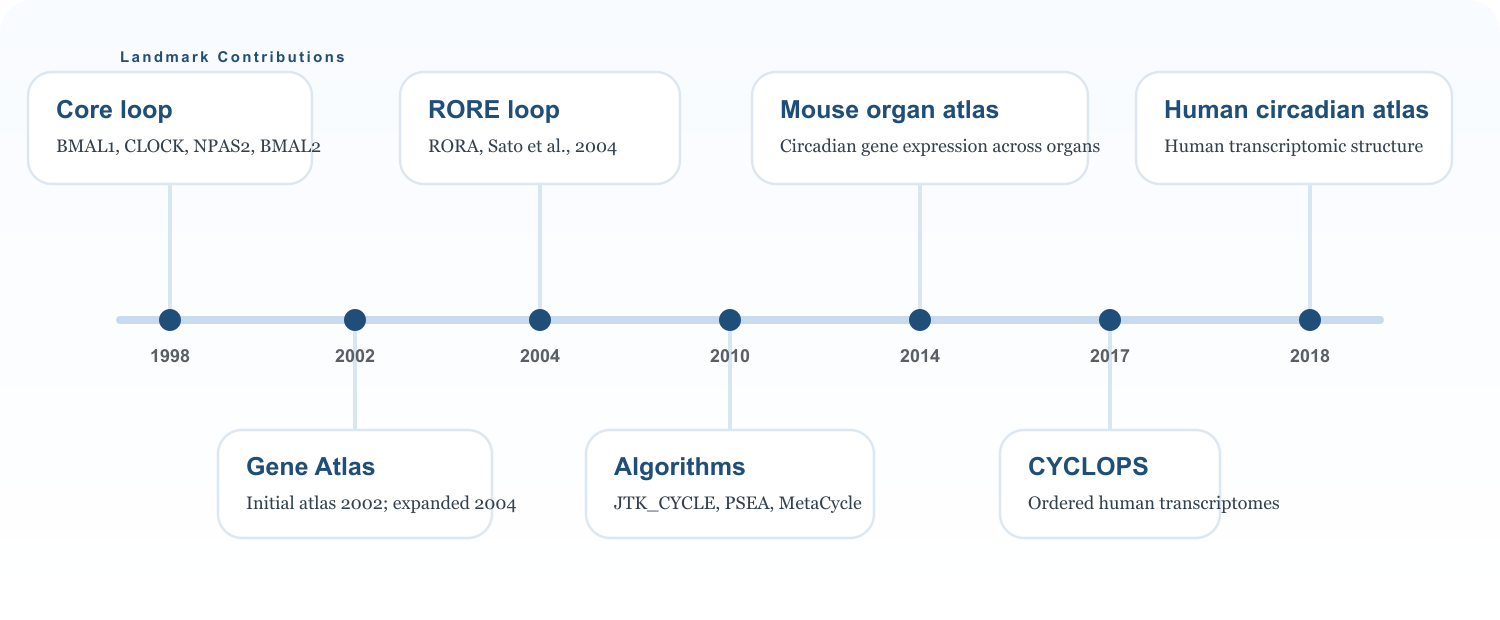
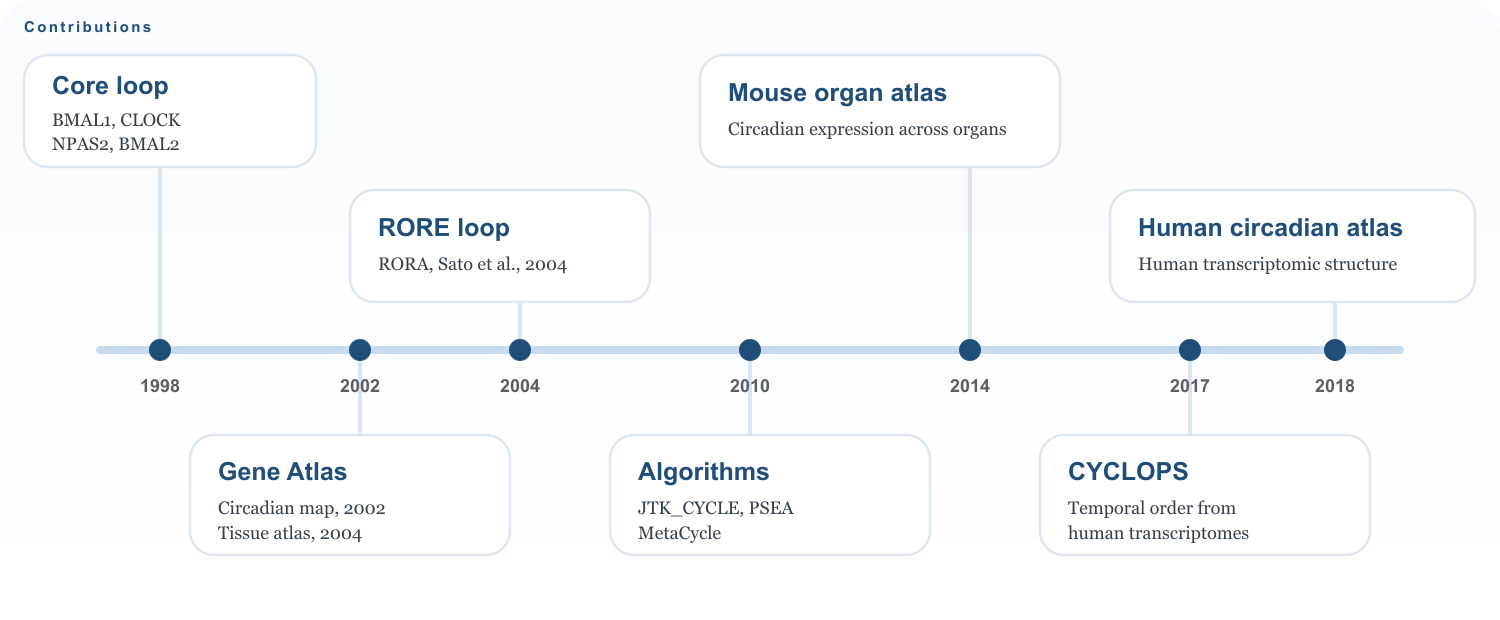
Improve timeline label spacing and readability

diff --git a/index.html b/index.html
@@ -20,14 +20,14 @@ circadian biology from core clock genes to human circadian medicine,
 with contributions in BMAL1, NPAS2, temporal genomics, methods, and
 public resources.">
   <meta property="og:url" content="https://hogeneschlab.org/">
-  <meta property="og:image" content="https://hogeneschlab.org/assets/images/landmark-contributions-map.png?v=20260314-4">
+  <meta property="og:image" content="https://hogeneschlab.org/assets/images/landmark-contributions-map.png?v=20260911-1">
   <meta name="twitter:card" content="summary_large_image">
   <meta name="twitter:title" content="Hogenesch Lab">
   <meta name="twitter:description" content="Hogenesch Lab studies
 circadian biology from core clock genes to human circadian medicine,
 with contributions in BMAL1, NPAS2, temporal genomics, methods, and
 public resources.">
-  <meta name="twitter:image" content="https://hogeneschlab.org/assets/images/landmark-contributions-map.png?v=20260314-4">
+  <meta name="twitter:image" content="https://hogeneschlab.org/assets/images/landmark-contributions-map.png?v=20260911-1">
   <link rel="stylesheet" href="styles.css?v=20260911-2">
 </head>
 <body>
@@ -167,7 +167,7 @@ medicine and human genetics.
 </p>
 </div>
 <figure class="feature-figure">
-<img src="assets/images/landmark-contributions-map.svg?v=20260318-1" alt="Chronological timeline showing the lab's contributions across clock biology, atlases, algorithms, human ordering, and public resources." />
+<img src="assets/images/landmark-contributions-map.svg?v=20260911-1" alt="Chronological timeline showing the lab's contributions across clock biology, atlases, algorithms, human ordering, and public resources." />
 <figcaption>
 A chronological view of the lab’s major contributions, with time as the
 organizing variable across molecular clock biology, atlas-scale

diff --git a/page-template.html b/page-template.html
@@ -14,11 +14,11 @@
   <meta property="og:title" content="$if(seo_title)$$seo_title$$else$$title$ | Hogenesch Lab$endif$">
   <meta property="og:description" content="$if(description)$$description$$else$Hogenesch Lab studies circadian biology, systems biology, and circadian medicine across clocks, transcriptomes, and public resources.$endif$">
   <meta property="og:url" content="$if(canonical)$$canonical$$else$https://hogeneschlab.org$permalink$$endif$">
-  <meta property="og:image" content="https://hogeneschlab.org/assets/images/landmark-contributions-map.png?v=20260314-4">
+  <meta property="og:image" content="https://hogeneschlab.org/assets/images/landmark-contributions-map.png?v=20260911-1">
   <meta name="twitter:card" content="summary_large_image">
   <meta name="twitter:title" content="$if(seo_title)$$seo_title$$else$$title$ | Hogenesch Lab$endif$">
   <meta name="twitter:description" content="$if(description)$$description$$else$Hogenesch Lab studies circadian biology, systems biology, and circadian medicine across clocks, transcriptomes, and public resources.$endif$">
-  <meta name="twitter:image" content="https://hogeneschlab.org/assets/images/landmark-contributions-map.png?v=20260314-4">
+  <meta name="twitter:image" content="https://hogeneschlab.org/assets/images/landmark-contributions-map.png?v=20260911-1">
   <link rel="stylesheet" href="styles.css?v=20260911-2">
 </head>
 <body>

diff --git a/press.html b/press.html
@@ -14,11 +14,11 @@
   <meta property="og:title" content="In the Press | Hogenesch Lab">
   <meta property="og:description" content="Hogenesch Lab studies circadian biology, systems biology, and circadian medicine across clocks, transcriptomes, and public resources.">
   <meta property="og:url" content="https://hogeneschlab.org/press.html">
-  <meta property="og:image" content="https://hogeneschlab.org/assets/images/landmark-contributions-map.png?v=20260314-4">
+  <meta property="og:image" content="https://hogeneschlab.org/assets/images/landmark-contributions-map.png?v=20260911-1">
   <meta name="twitter:card" content="summary_large_image">
   <meta name="twitter:title" content="In the Press | Hogenesch Lab">
   <meta name="twitter:description" content="Hogenesch Lab studies circadian biology, systems biology, and circadian medicine across clocks, transcriptomes, and public resources.">
-  <meta name="twitter:image" content="https://hogeneschlab.org/assets/images/landmark-contributions-map.png?v=20260314-4">
+  <meta name="twitter:image" content="https://hogeneschlab.org/assets/images/landmark-contributions-map.png?v=20260911-1">
   <link rel="stylesheet" href="styles.css?v=20260911-2">
 </head>
 <body>

diff --git a/people.html b/people.html
@@ -18,13 +18,13 @@ across Novartis, Scripps, Penn, and Cincinnati Children’s.">
 including John B. Hogenesch, current team members, scientific lineage,
 and alumni across Novartis, Scripps, Penn, and Cincinnati Children’s.">
   <meta property="og:url" content="https://hogeneschlab.org/people.html">
-  <meta property="og:image" content="https://hogeneschlab.org/assets/images/landmark-contributions-map.png?v=20260314-4">
+  <meta property="og:image" content="https://hogeneschlab.org/assets/images/landmark-contributions-map.png?v=20260911-1">
   <meta name="twitter:card" content="summary_large_image">
   <meta name="twitter:title" content="People | Hogenesch Lab">
   <meta name="twitter:description" content="Meet the Hogenesch Lab,
 including John B. Hogenesch, current team members, scientific lineage,
 and alumni across Novartis, Scripps, Penn, and Cincinnati Children’s.">
-  <meta name="twitter:image" content="https://hogeneschlab.org/assets/images/landmark-contributions-map.png?v=20260314-4">
+  <meta name="twitter:image" content="https://hogeneschlab.org/assets/images/landmark-contributions-map.png?v=20260911-1">
   <link rel="stylesheet" href="styles.css?v=20260911-2">
 </head>
 <body>

diff --git a/research.html b/research.html
@@ -18,13 +18,13 @@ computational methods, circadian medicine, and Human Genetics.">
 Hogenesch Lab spans molecular clock mechanisms, systems biology,
 computational methods, circadian medicine, and Human Genetics.">
   <meta property="og:url" content="https://hogeneschlab.org/research.html">
-  <meta property="og:image" content="https://hogeneschlab.org/assets/images/landmark-contributions-map.png?v=20260314-4">
+  <meta property="og:image" content="https://hogeneschlab.org/assets/images/landmark-contributions-map.png?v=20260911-1">
   <meta name="twitter:card" content="summary_large_image">
   <meta name="twitter:title" content="Research | Hogenesch Lab">
   <meta name="twitter:description" content="Published research from the
 Hogenesch Lab spans molecular clock mechanisms, systems biology,
 computational methods, circadian medicine, and Human Genetics.">
-  <meta name="twitter:image" content="https://hogeneschlab.org/assets/images/landmark-contributions-map.png?v=20260314-4">
+  <meta name="twitter:image" content="https://hogeneschlab.org/assets/images/landmark-contributions-map.png?v=20260911-1">
   <link rel="stylesheet" href="styles.css?v=20260911-2">
 </head>
 <body>

diff --git a/collaborations.html b/collaborations.html
@@ -18,13 +18,13 @@ genomics, circadian biology, and public resources.">
 the Hogenesch Lab with Andrew Su, Andrew Liu, Ron Anafi, and others
 across genomics, circadian biology, and public resources.">
   <meta property="og:url" content="https://hogeneschlab.org/collaborations.html">
-  <meta property="og:image" content="https://hogeneschlab.org/assets/images/landmark-contributions-map.png?v=20260314-4">
+  <meta property="og:image" content="https://hogeneschlab.org/assets/images/landmark-contributions-map.png?v=20260911-1">
   <meta name="twitter:card" content="summary_large_image">
   <meta name="twitter:title" content="Collaborations | Hogenesch Lab">
   <meta name="twitter:description" content="Long-term collaborations of
 the Hogenesch Lab with Andrew Su, Andrew Liu, Ron Anafi, and others
 across genomics, circadian biology, and public resources.">
-  <meta name="twitter:image" content="https://hogeneschlab.org/assets/images/landmark-contributions-map.png?v=20260314-4">
+  <meta name="twitter:image" content="https://hogeneschlab.org/assets/images/landmark-contributions-map.png?v=20260911-1">
   <link rel="stylesheet" href="styles.css?v=20260911-2">
 </head>
 <body>

diff --git a/publications.html b/publications.html
@@ -18,13 +18,13 @@ biology, algorithms, and public resources.">
 publications from the Hogenesch Lab, with major papers in circadian
 biology, systems biology, algorithms, and public resources.">
   <meta property="og:url" content="https://hogeneschlab.org/publications.html">
-  <meta property="og:image" content="https://hogeneschlab.org/assets/images/landmark-contributions-map.png?v=20260314-4">
+  <meta property="og:image" content="https://hogeneschlab.org/assets/images/landmark-contributions-map.png?v=20260911-1">
   <meta name="twitter:card" content="summary_large_image">
   <meta name="twitter:title" content="Publications | Hogenesch Lab">
   <meta name="twitter:description" content="Selected landmark
 publications from the Hogenesch Lab, with major papers in circadian
 biology, systems biology, algorithms, and public resources.">
-  <meta name="twitter:image" content="https://hogeneschlab.org/assets/images/landmark-contributions-map.png?v=20260314-4">
+  <meta name="twitter:image" content="https://hogeneschlab.org/assets/images/landmark-contributions-map.png?v=20260911-1">
   <link rel="stylesheet" href="styles.css?v=20260911-2">
 </head>
 <body>

diff --git a/lineage.html b/lineage.html
@@ -19,14 +19,14 @@ Lineage | Hogenesch Lab">
 Hogenesch Lab, acknowledging the influence of Christopher A. Bradfield,
 Joseph S. Takahashi, Steve A. Kay, and Peter G. Schultz.">
   <meta property="og:url" content="https://hogeneschlab.org/lineage.html">
-  <meta property="og:image" content="https://hogeneschlab.org/assets/images/landmark-contributions-map.png?v=20260314-4">
+  <meta property="og:image" content="https://hogeneschlab.org/assets/images/landmark-contributions-map.png?v=20260911-1">
   <meta name="twitter:card" content="summary_large_image">
   <meta name="twitter:title" content="Scientific
 Lineage | Hogenesch Lab">
   <meta name="twitter:description" content="Scientific Lineage of the
 Hogenesch Lab, acknowledging the influence of Christopher A. Bradfield,
 Joseph S. Takahashi, Steve A. Kay, and Peter G. Schultz.">
-  <meta name="twitter:image" content="https://hogeneschlab.org/assets/images/landmark-contributions-map.png?v=20260314-4">
+  <meta name="twitter:image" content="https://hogeneschlab.org/assets/images/landmark-contributions-map.png?v=20260911-1">
   <link rel="stylesheet" href="styles.css?v=20260911-2">
 </head>
 <body>

diff --git a/resources.html b/resources.html
@@ -18,13 +18,13 @@ CYCLOPS, CircaDB, and Gene Atlas.">
 datasets from the Hogenesch Lab, including JTK_CYCLE, PSEA, MetaCycle,
 CYCLOPS, CircaDB, and Gene Atlas.">
   <meta property="og:url" content="https://hogeneschlab.org/resources.html">
-  <meta property="og:image" content="https://hogeneschlab.org/assets/images/landmark-contributions-map.png?v=20260314-4">
+  <meta property="og:image" content="https://hogeneschlab.org/assets/images/landmark-contributions-map.png?v=20260911-1">
   <meta name="twitter:card" content="summary_large_image">
   <meta name="twitter:title" content="Resources | Hogenesch Lab">
   <meta name="twitter:description" content="Methods, software, and
 public datasets from the Hogenesch Lab, including JTK_CYCLE, PSEA,
 MetaCycle, CYCLOPS, CircaDB, and Gene Atlas.">
-  <meta name="twitter:image" content="https://hogeneschlab.org/assets/images/landmark-contributions-map.png?v=20260314-4">
+  <meta name="twitter:image" content="https://hogeneschlab.org/assets/images/landmark-contributions-map.png?v=20260911-1">
   <link rel="stylesheet" href="styles.css?v=20260911-2">
 </head>
 <body>

diff --git a/join.html b/join.html
@@ -18,13 +18,13 @@ circadian medicine.">
 Hogenesch Lab in circadian biology, systems biology, computational
 methods, and circadian medicine.">
   <meta property="og:url" content="https://hogeneschlab.org/join.html">
-  <meta property="og:image" content="https://hogeneschlab.org/assets/images/landmark-contributions-map.png?v=20260314-4">
+  <meta property="og:image" content="https://hogeneschlab.org/assets/images/landmark-contributions-map.png?v=20260911-1">
   <meta name="twitter:card" content="summary_large_image">
   <meta name="twitter:title" content="Join | Hogenesch Lab">
   <meta name="twitter:description" content="Opportunities to join the
 Hogenesch Lab in circadian biology, systems biology, computational
 methods, and circadian medicine.">
-  <meta name="twitter:image" content="https://hogeneschlab.org/assets/images/landmark-contributions-map.png?v=20260314-4">
+  <meta name="twitter:image" content="https://hogeneschlab.org/assets/images/landmark-contributions-map.png?v=20260911-1">
   <link rel="stylesheet" href="styles.css?v=20260911-2">
 </head>
 <body>

diff --git a/404.html b/404.html
@@ -16,12 +16,12 @@ found on the Hogenesch Lab website.">
   <meta property="og:description" content="The requested page could not
 be found on the Hogenesch Lab website.">
   <meta property="og:url" content="https://hogeneschlab.org/404.html">
-  <meta property="og:image" content="https://hogeneschlab.org/assets/images/landmark-contributions-map.png?v=20260314-4">
+  <meta property="og:image" content="https://hogeneschlab.org/assets/images/landmark-contributions-map.png?v=20260911-1">
   <meta name="twitter:card" content="summary_large_image">
   <meta name="twitter:title" content="Page Not Found | Hogenesch Lab">
   <meta name="twitter:description" content="The requested page could not
 be found on the Hogenesch Lab website.">
-  <meta name="twitter:image" content="https://hogeneschlab.org/assets/images/landmark-contributions-map.png?v=20260314-4">
+  <meta name="twitter:image" content="https://hogeneschlab.org/assets/images/landmark-contributions-map.png?v=20260911-1">
   <link rel="stylesheet" href="styles.css?v=20260911-2">
 </head>
 <body>

diff --git a/index.md b/index.md
@@ -82,7 +82,7 @@ description: Hogenesch Lab studies circadian biology from core clock genes to hu
 <p class="section-intro">The program moved from defining clock components to measuring temporal biology across genomes and tissues, then to methods that recover biological time from human data. That progression provides the experimental and computational basis for current work in circadian medicine and human genetics.</p>
 </div>
 <figure class="feature-figure">
-<img src="assets/images/landmark-contributions-map.svg?v=20260318-1" alt="Chronological timeline showing the lab's contributions across clock biology, atlases, algorithms, human ordering, and public resources." />
+<img src="assets/images/landmark-contributions-map.svg?v=20260911-1" alt="Chronological timeline showing the lab's contributions across clock biology, atlases, algorithms, human ordering, and public resources." />
 <figcaption>A chronological view of the lab's major contributions, with time as the organizing variable across molecular clock biology, atlas-scale genomics, computational methods, and public resources.</figcaption>
 </figure>
 </section>
